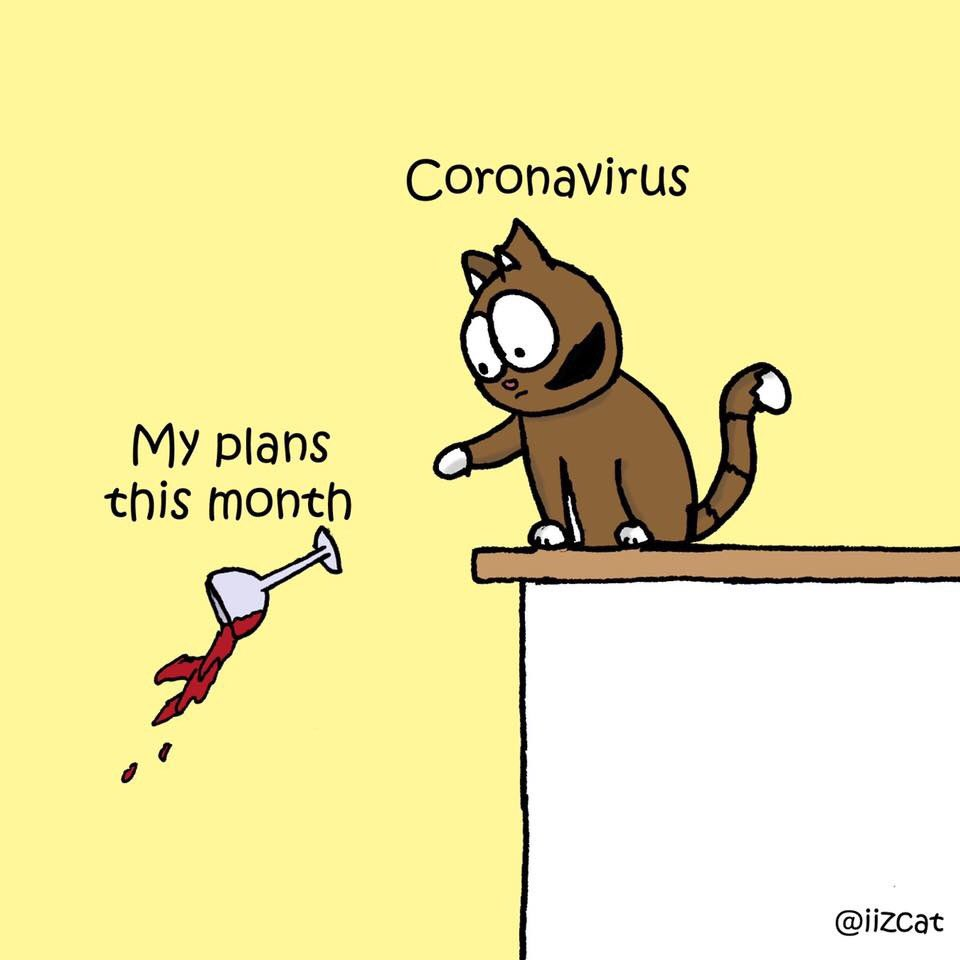
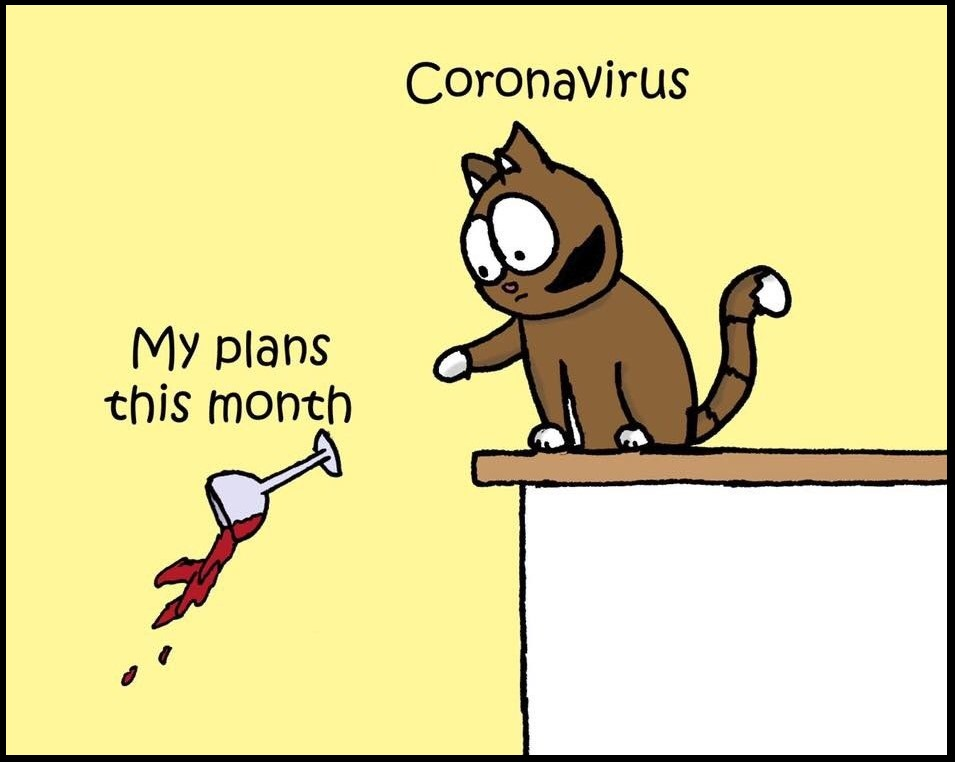
added images and font

Changed region(s): [[0.0, 0.0, 1.0, 1.0], [0.0911, 0.4226, 0.3948, 0.8753], [0.1215, 0.8753, 0.1518, 0.9055]]

diff --git a/index.html b/index.html
@@ -13,6 +13,8 @@
   <!-- link to our CSS file -->
   <link rel="stylesheet" href="assets/css/style.css" />
 
+  <!-- google fonts -->
+  <link href="https://fonts.googleapis.com/css2?family=Baloo+Paaji+2:wght@400;500&family=Raleway&display=swap" rel="stylesheet">
 
   <!-- moved Rachels JQuery link here -->
   <script src="https://code.jquery.com/jquery-3.4.1.js" integrity="sha256-WpOohJOqMqqyKL9FccASB9O0KwACQJpFTUBLTYOVvVU="
@@ -81,11 +83,12 @@
         </div>
       </div>
     </div>
+  </div>
 
     <!-- adding a carousel to flip through comics/images -->
-    <h3>And Now for Something Completely Different</h3>
+    <!-- <h3>And Now for Something Completely Different</h3>
     <div class="carouselComic">
-      <div id="carouselExampleIndicators" class="carousel slide" data-ride="false">
+      <div id="carouselExampleIndicators" class="carousel slide" data-interval="false">
         <ol class="carousel-indicators">
           <li data-target="#carouselExampleIndicators" data-slide-to="0" class="active"></li>
           <li data-target="#carouselExampleIndicators" data-slide-to="1"></li>
@@ -111,8 +114,7 @@
           <span class="sr-only">Next</span>
         </a>
       </div>
-    </div>
-  </div>
+    </div> -->
 
 
   <!-- jQuery first, then Popper.js, then Bootstrap JS -->

diff --git a/assets/css/style.css b/assets/css/style.css
@@ -1,3 +1,6 @@
+body {
+  font-family: 'Raleway', sans-serif;}
+
 h1 {
   color: red;
   font-size: 50px;
@@ -47,4 +50,13 @@ width: auto;
 
 .carousel img {
   margin: auto;
+}
+
+.carousel-control-prev-icon {
+  background-color: black;
+  
+}
+
+.carousel-control-next-icon {
+  background-color: black;
 }
